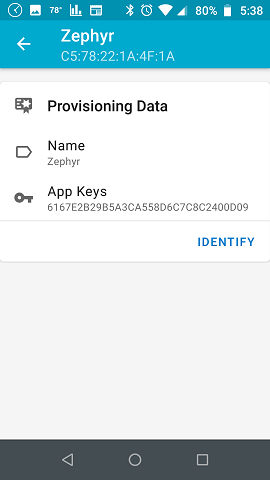
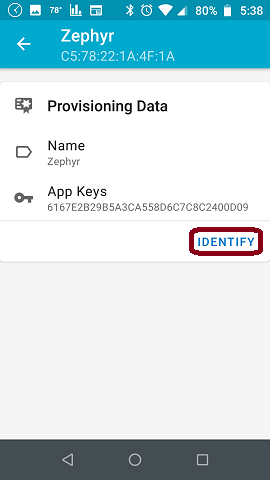
check in

Changed region(s): [[0.6815, 0.4688, 0.9778, 0.5312]]

diff --git a/docs/mesh.md b/docs/mesh.md
@@ -123,7 +123,7 @@ The goal of this tutorial is to give you a simple example that can get you start
 
 4. Provision the 3 nodes
 
-   - Power up all nodes
+   - Power up all 3 nodes
    
    - Optional: If you are powering the dev kit via the USB1 port, you can monitor debug messages with a terminal emulator (e.g. Tera Term) set to 115200, N, 8, 1. 
    
@@ -135,15 +135,47 @@ The goal of this tutorial is to give you a simple example that can get you start
    
    - Next click "IDENTIFY"
    
+     ![AddNode1](../images/mesh/AddNode1.png)
+   
+   - Next click "PROVISION"
+   
+     ![Provision](../images/mesh/Provision.png)
+   
+   - Select No OOB
+   
+     ![OOB](C:\GitHub\Test\images\mesh\OOB.png)
+   
+   - Provision Complete
+   
+     ![ProvisionComplete](../images/mesh/ProvisionComplete.png)
+   
+   - Click the provisioned node
+   
+     ![ClickProvsionedNode](../images/mesh/ClickProvsionedNode.png)![OldName](C:\GitHub\Test\images\mesh\OldName.png)
+   
+   - Click node name to rename
+   
+     ![NodeName](../images/mesh/NodeName.png)
+   
      
+   
+     ![OldName](../images/mesh/OldName.png)
+   
+     
+   
+     ![NewName](../images/mesh/NewName.png)
+   
+     
+   
+   - Rename
+   
+   - 
    
    - a
    
-   - d
+   - a
    
-   - g
-   
-   - 
+   - a
 
 
 
